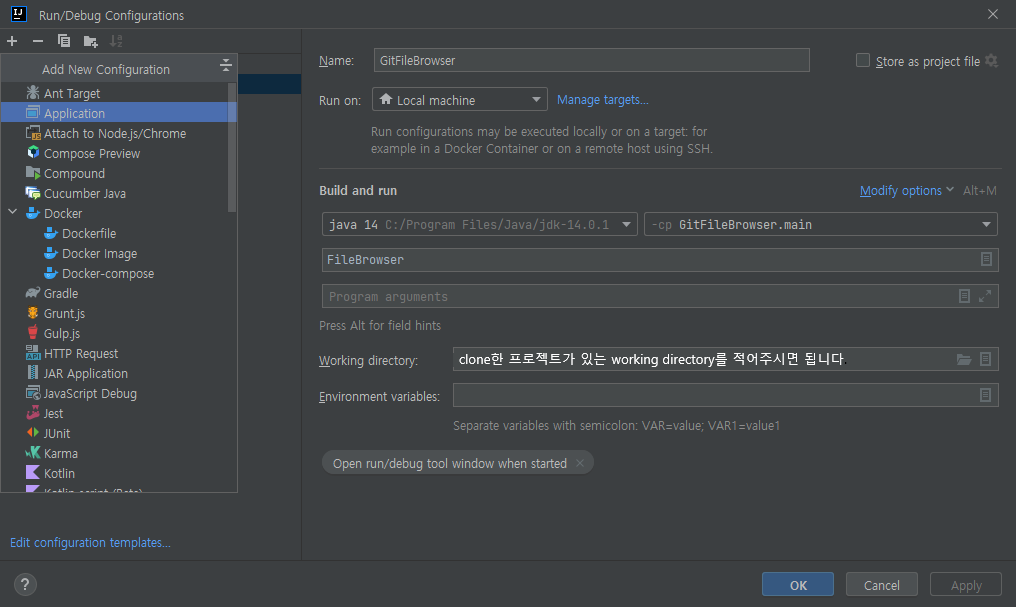
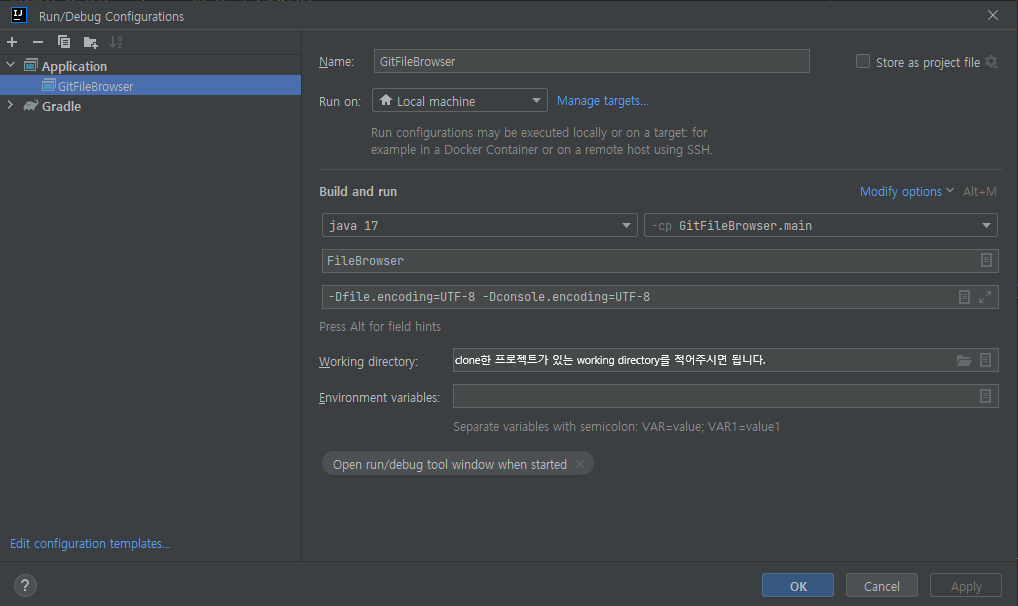
README.md 수정

diff --git a/README.md b/README.md
@@ -6,7 +6,9 @@
 > file browser에 과제에서 요구되는 git gui 기능을 구현했습니다.
 ## How to Execute
 
-개발 및 실행 환경은 IntelliJ Ultimate IDEA를 사용했습니다.  
+개발 및 실행 환경 : IntelliJ IDEA Ultimate
+언어 및 버전 : JAVA, JDK-17
+빌드 툴 및 버전 : gradle 8.0
 
 ### 아래는 프로젝트 실행 방법입니다.
 1. 프로젝트를 클론합니다. `git clone https://github.com/advicewook/FileBrowser.git`
@@ -14,27 +16,30 @@
 3. IntelliJ Ultimate IDEA의 인덱싱이 끝날 때까지 기다립니다. 이는 우측 하단의 프로그레스바에서 확인할 수 있습니다.  
 4. 우측 상단 Gradle 탭을 열고 reload합니다.  
    <img src="Screenshots/gradle-refresh.png"/>
-5. reload가 끝나면 우측 상단의 Edit Configuration 창을 엽니다.  
+5. File > Settings에서 Intellij의 설정값을 아래와 같이 변경합니다.
+   <img src="Screenshots/config-settings-gradle.png"/>
+   <img src="Screenshots/config-file-encoding.png"/>
+6. File > Project Structure에서 Intellij의 설정값을 아래와 같이 변경합니다.
+   <img src="Screenshots/config-sdk.png"/>
+7. reload가 끝나면 우측 상단의 Edit Configuration 창을 엽니다.  
    <img src="Screenshots/config-step1.png"/>  
-6. 아래 이미지를 참고하여 설정값을 변경합니다. jdk는 14.0.1을 사용했습니다. jdk가 없다면 우측 링크에서 다운로드받으실 수 있습니다.(https://www.oracle.com/kr/java/technologies/javase/jdk14-archive-downloads.html)  
+8. 아래 이미지를 참고하여 설정값을 변경합니다. JDK17이 없다면 우측 링크에서 다운로드받으실 수 있습니다.(https://www.oracle.com/kr/java/technologies/javase/jdk17-archive-downloads.html)  
    <img src="Screenshots/config-step2.png"/>  
-7. 설정이 완료되면 저장 후 Configuration창을 닫습니다. 이후 우측 상단에서 Run 버튼을 눌러 애플리케이션을 실행할 수 있습니다.  
+9. 설정이 완료되면 저장 후 Configuration창을 닫습니다. 이후 우측 상단에서 Run 버튼을 눌러 애플리케이션을 실행할 수 있습니다.  
    <img src="Screenshots/config-step3.png"/>  
-8. 실행 결과 예시  
+10. 실행 결과 예시  
    <img src="Screenshots/config-step4.png"/>  
 
 ### 아래는 gradle을 이용한 빌드 후 jar파일 실행 방법입니다.  
-1. 프로젝트 실행 방법의 5번까지 실행합니다.  
+1. 프로젝트 실행 방법의 6번까지 완료한 후 7번을 실행합니다.  
 2. 아래 이미지를 참고하여 설정값을 변경합니다.  
    <img src="Screenshots/gradle-config-step1.png"/>  
-3. 설정이 완료되면 저장 후 Configuration창을 닫습니다.  
-4. 좌측 상단 'File > Settings > Editor > File Encodings'에서 Global Encoding과 Project Encoding, Default Encoding이 모두 UTF-8로 되어 있는지 확인 후, UTF-8이 아니라면 UTF-8로 변경합니다. (코드에 한글 주석이 있기 때문에 필요한 과정입니다.)  
-   <img src="Screenshots/file-encoding.png"/>  
-5. 설정을 마친 후, 우측 상단에서 Run 버튼을 눌러 gradle 빌드를 실행합니다.  
+3. 설정이 완료되면 저장 후 Configuration창을 닫습니다.
+4. 설정을 마친 후, 우측 상단에서 Run 버튼을 눌러 gradle 빌드 명령을 실행합니다.  
    <img src="Screenshots/gradle-config-step1half.png"/>  
 6. 빌드가 성공적으로 끝났다면 아래와 같은 로그가 출력되고, 빌드 결과물은 /build/libs에 jar파일로 생성됩니다.  
    <img src="Screenshots/assemble-log.png"/>  
-7. 이 결과물은 `java -jar {빌드 결과물 이름}`으로 실행할 수 있습니다.   
+7. 이 결과물은 `java -jar FileBrowser-1.0-SNAPSHOT.jar`으로 실행할 수 있습니다.   
 8. 실행 결과 예시  
    <img src="Screenshots/gradle-config-step2.png"/>   
 
@@ -43,6 +48,8 @@
 - 2023-05-01 : eclipse project를 gradle project로 변경  
 - 2023-05-03 : commit menu ui 추가  
 - 2023-05-03 : create repository 버튼 생성
+- 2023-05-10 : 깃 레포지토리의 영향 범위에 포함된 파일 우클릭 시 git status에 따른 팝업 생성, 선택 시 기능 동작 
+- 2023-05-10 : 커밋 기능 구현
 
 ## Details About Implementation
 ### 주요 의존성
